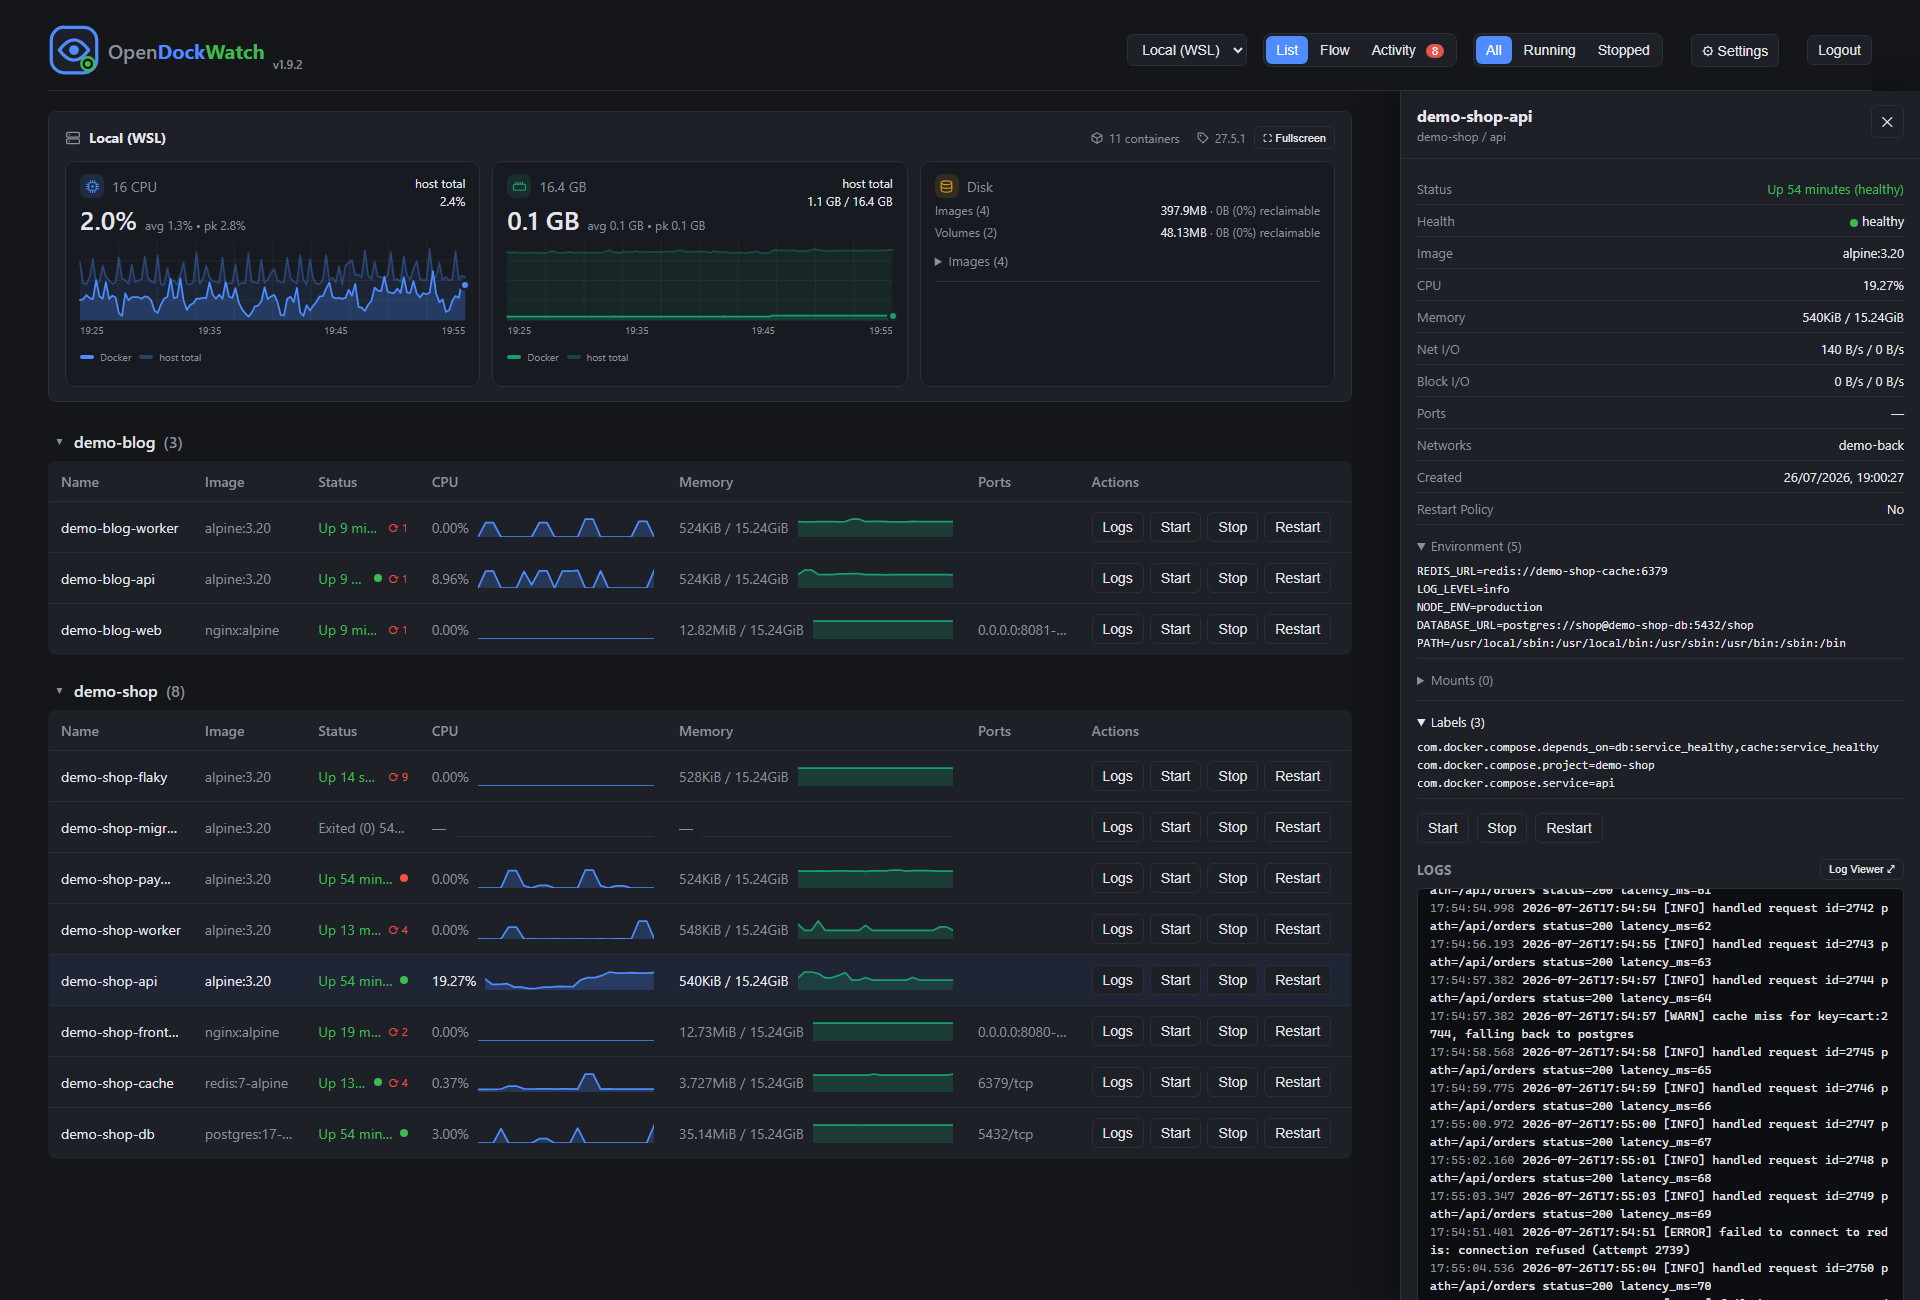
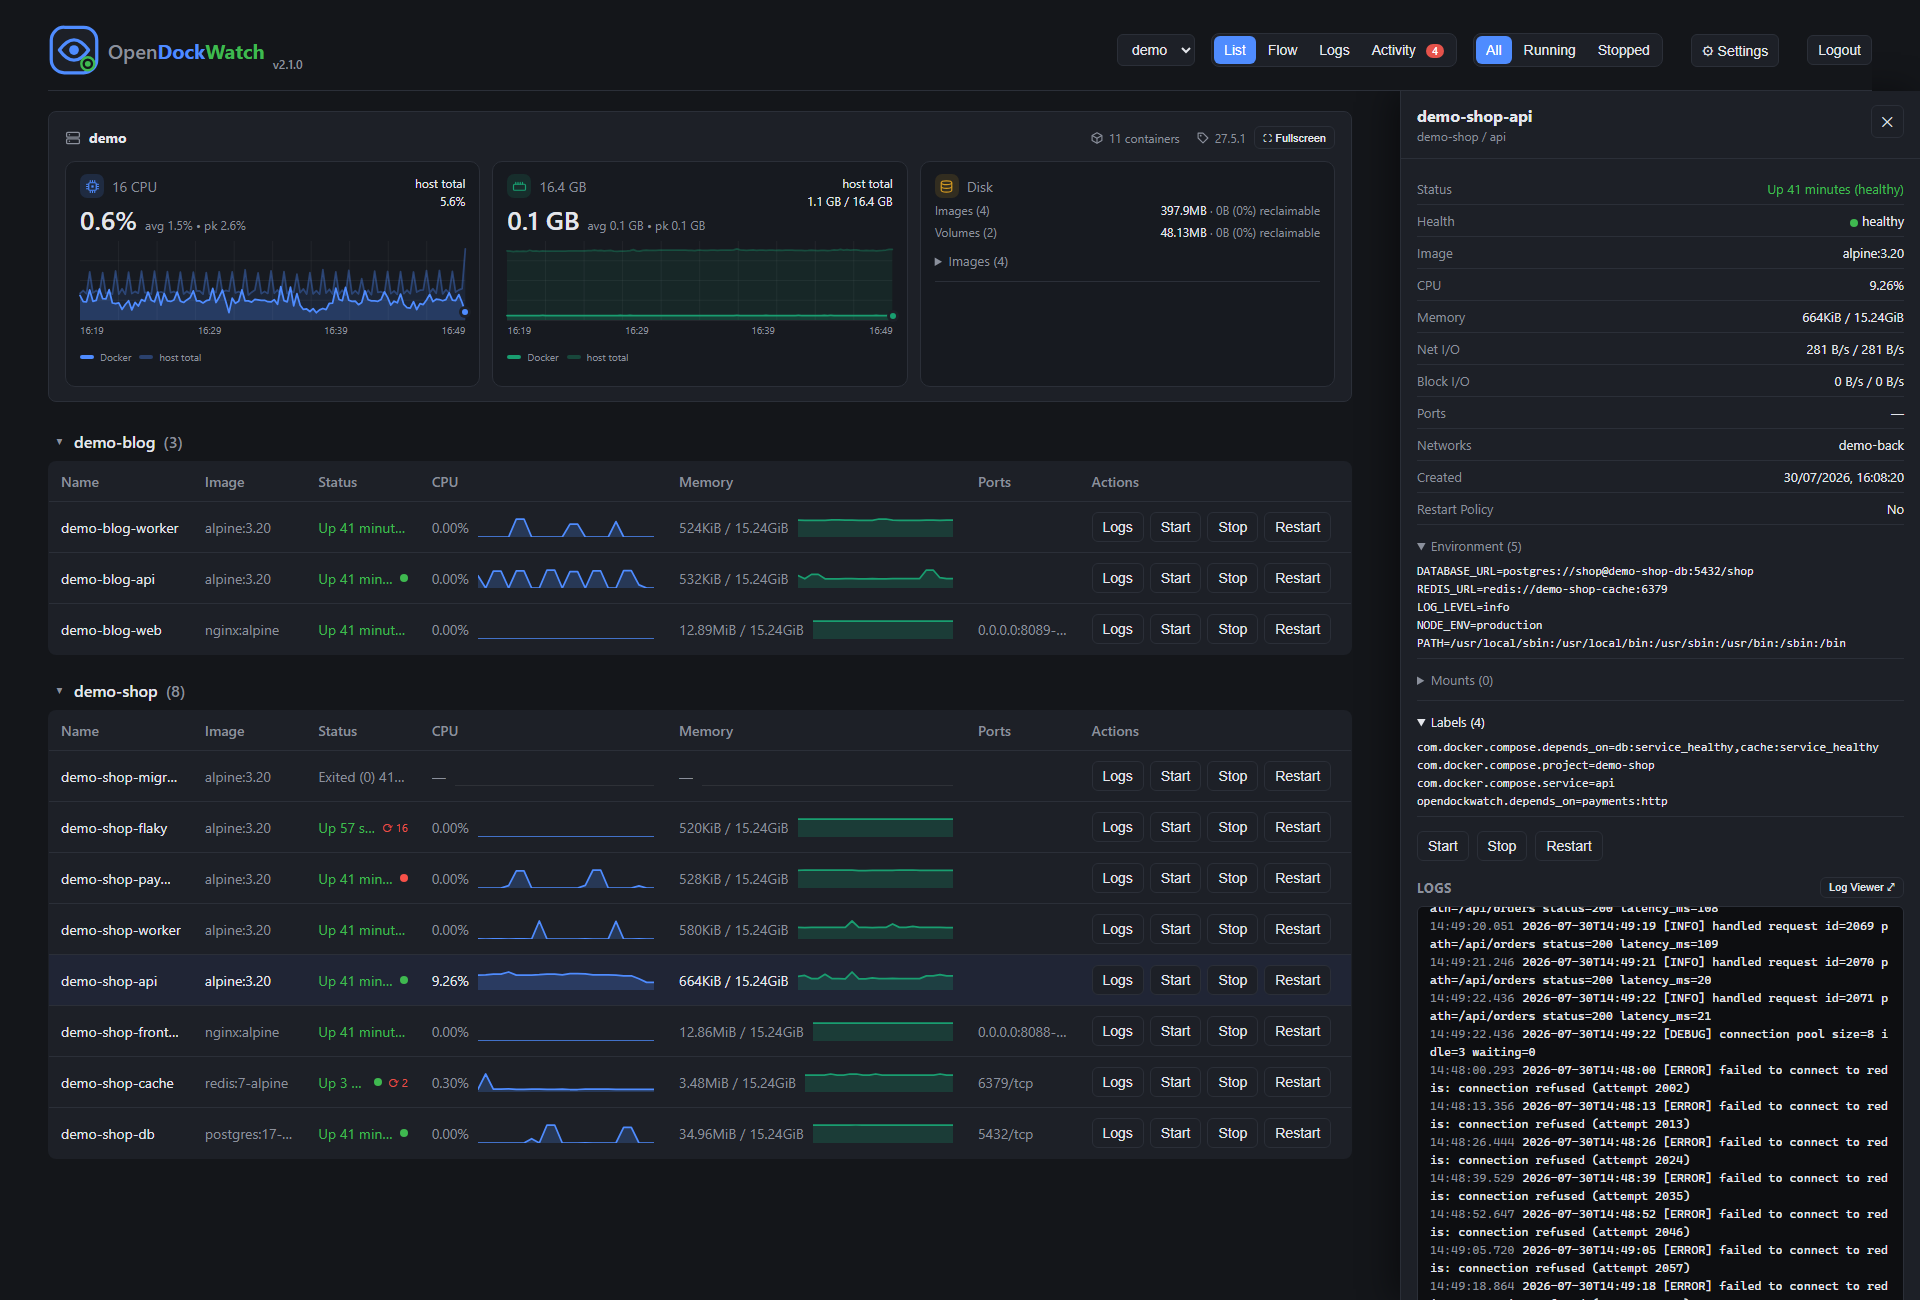
Add opendockwatch.depends_on label support for compose-native manual Flow-view dependency edges, superseding hand-maintained hosts.json edges where a container name is enough Retake all README screenshots (plus a new Logs-tab shot) against a longer-warmed demo stack showing the new dependency labels

diff --git a/server/docker.js b/server/docker.js
@@ -252,6 +252,55 @@ function dependsOnEdges(containers, dependsOnRaw) {
   return edges;
 }
 
+// Resolves the opendockwatch.depends_on label into manual dependency edges - the compose-native
+// alternative to hand-maintaining edges in hosts.json's `edges` array (see manualEdges below):
+// declared right on the service that has the dependency instead of in a separate config file.
+// Same truncation hazard as com.docker.compose.depends_on above, and the same fix - fetched via
+// its own dedicated `docker ps --format` rather than pulled from the general Labels string.
+//
+// customDependsOnRaw is tab-separated "<containerId>\t<label value>" lines, one per container
+// (value may be empty). Each comma-separated entry is "target[:label]" - target resolves to a
+// same-compose-project service first (so a project's own services can reference each other by
+// their short name, exactly like native depends_on, including fanning out to every replica of a
+// scaled service), falling back to a literal container name for cross-project or non-compose
+// targets - the same targeting hosts.json's manual `edges` already supports.
+function customDependsOnEdges(containers, customDependsOnRaw) {
+  const byProjectService = new Map();
+  for (const c of containers) {
+    if (!c.composeProject || !c.composeService) continue;
+    const key = `${c.composeProject}::${c.composeService}`;
+    if (!byProjectService.has(key)) byProjectService.set(key, []);
+    byProjectService.get(key).push(c.id);
+  }
+  const byName = new Map(containers.map((c) => [c.name, c.id]));
+  const byId = new Map(containers.map((c) => [c.id, c]));
+
+  const edges = [];
+  for (const line of (customDependsOnRaw || '').split('\n')) {
+    const trimmed = line.trim();
+    if (!trimmed) continue;
+    const tabIdx = trimmed.indexOf('\t');
+    const id = tabIdx === -1 ? trimmed : trimmed.slice(0, tabIdx);
+    const value = tabIdx === -1 ? '' : trimmed.slice(tabIdx + 1);
+    if (!value) continue;
+    const source = byId.get(id);
+    if (!source) continue;
+    for (const entry of value.split(',')) {
+      const [rawTarget, rawLabel] = entry.split(':');
+      const target = (rawTarget || '').trim();
+      if (!target) continue;
+      const sameProjectTargets = source.composeProject ? byProjectService.get(`${source.composeProject}::${target}`) : null;
+      const targetIds =
+        sameProjectTargets && sameProjectTargets.length ? sameProjectTargets : byName.has(target) ? [byName.get(target)] : [];
+      for (const targetId of targetIds) {
+        if (targetId === id) continue;
+        edges.push({ source: id, target: targetId, kind: 'manual', label: rawLabel ? rawLabel.trim() : null });
+      }
+    }
+  }
+  return edges;
+}
+
 // Resolves each container's mount sources for the Flow view's tree mode. Docker's `{{.Mounts}}`
 // format truncates long bind-mount source paths (and, with --no-trunc, so does the paired
 // {{.ID}} column - it comes back as the full 64-char id instead of the usual 12-char short one),
@@ -304,9 +353,10 @@ function manualEdges(containers, declared = []) {
 async function getTopology(host, snapshot) {
   const useSnapshot = snapshot && snapshot.containers && snapshot.containers.length;
   const containers = useSnapshot ? snapshot.containers : await listContainers(host);
-  const [stats, dependsOnRaw, mountsRaw] = await Promise.all([
+  const [stats, dependsOnRaw, customDependsOnRaw, mountsRaw] = await Promise.all([
     useSnapshot ? Promise.resolve(snapshot.stats || {}) : getStats(host).catch(() => ({})),
     run([...hostArgs(host), 'ps', '-a', '--format', '{{.ID}}\t{{.Label "com.docker.compose.depends_on"}}']).catch(() => ''),
+    run([...hostArgs(host), 'ps', '-a', '--format', '{{.ID}}\t{{.Label "opendockwatch.depends_on"}}']).catch(() => ''),
     run([...hostArgs(host), 'ps', '-a', '--no-trunc', '--format', '{{.ID}}\t{{.Mounts}}']).catch(() => ''),
   ]);
   const mountsById = parseMountsList(mountsRaw);
@@ -332,7 +382,12 @@ async function getTopology(host, snapshot) {
       blockWriteRate: s ? (s.blockWriteRate ?? null) : null,
     };
   });
-  const edges = [...networkEdges(containers), ...dependsOnEdges(containers, dependsOnRaw), ...manualEdges(containers, host.edges)];
+  const edges = [
+    ...networkEdges(containers),
+    ...dependsOnEdges(containers, dependsOnRaw),
+    ...customDependsOnEdges(containers, customDependsOnRaw),
+    ...manualEdges(containers, host.edges),
+  ];
   return { nodes, edges };
 }
 
@@ -458,6 +513,7 @@ module.exports = {
   parseHealth,
   networkEdges,
   dependsOnEdges,
+  customDependsOnEdges,
   parseMountsList,
   computeRate,
   computeIoRates,

diff --git a/test/docker.test.js b/test/docker.test.js
@@ -7,6 +7,7 @@ const {
   parseHealth,
   networkEdges,
   dependsOnEdges,
+  customDependsOnEdges,
   parseMountsList,
   computeRate,
   computeIoRates,
@@ -217,6 +218,74 @@ test('dependsOnEdges', async (t) => {
       { id: 'b', composeProject: 'esb', composeService: 'db' },
     ];
     const edges = dependsOnEdges(containers, 'a\tdb:service_healthy:false');
+    assert.equal(edges.length, 0);
+  });
+});
+
+test('customDependsOnEdges', async (t) => {
+  await t.test('resolves a same-project service by name', () => {
+    const containers = [
+      { id: 'a', name: 'shop-api', composeProject: 'shop', composeService: 'api' },
+      { id: 'b', name: 'shop-db', composeProject: 'shop', composeService: 'db' },
+    ];
+    const edges = customDependsOnEdges(containers, 'a\tdb:reads');
+    assert.equal(edges.length, 1);
+    assert.deepEqual(edges[0], { source: 'a', target: 'b', kind: 'manual', label: 'reads' });
+  });
+
+  await t.test('handles multiple comma-separated targets without truncating', () => {
+    const containers = [
+      { id: 'a', name: 'shop-api', composeProject: 'shop', composeService: 'api' },
+      { id: 'b', name: 'shop-db', composeProject: 'shop', composeService: 'db' },
+      { id: 'c', name: 'shop-cache', composeProject: 'shop', composeService: 'cache' },
+    ];
+    const edges = customDependsOnEdges(containers, 'a\tdb:reads,cache:uses');
+    assert.equal(edges.length, 2);
+    assert.deepEqual(edges.map((e) => e.target).sort(), ['b', 'c']);
+  });
+
+  await t.test('resolves a scaled service to all of its replica containers', () => {
+    const containers = [
+      { id: 'a', name: 'shop-api', composeProject: 'shop', composeService: 'api' },
+      { id: 'w1', name: 'shop-worker-1', composeProject: 'shop', composeService: 'worker' },
+      { id: 'w2', name: 'shop-worker-2', composeProject: 'shop', composeService: 'worker' },
+    ];
+    const edges = customDependsOnEdges(containers, 'a\tworker');
+    assert.equal(edges.length, 2);
+    assert.deepEqual(edges.map((e) => e.target).sort(), ['w1', 'w2']);
+  });
+
+  await t.test('produces no edges for a container with no depends_on label', () => {
+    const containers = [
+      { id: 'a', name: 'shop-api', composeProject: 'shop', composeService: 'api' },
+      { id: 'b', name: 'shop-db', composeProject: 'shop', composeService: 'db' },
+    ];
+    const edges = customDependsOnEdges(containers, 'a\t\nb\t');
+    assert.equal(edges.length, 0);
+  });
+
+  await t.test('falls back to a literal container name for a cross-project target', () => {
+    const containers = [
+      { id: 'a', name: 'shop-api', composeProject: 'shop', composeService: 'api' },
+      { id: 'b', name: 'blog-db', composeProject: 'blog', composeService: 'db' },
+    ];
+    const edges = customDependsOnEdges(containers, 'a\tblog-db:reads');
+    assert.equal(edges.length, 1);
+    assert.deepEqual(edges[0], { source: 'a', target: 'b', kind: 'manual', label: 'reads' });
+  });
+
+  await t.test('produces no edge for a target that matches neither a same-project service nor any container name', () => {
+    const containers = [
+      { id: 'a', name: 'shop-api', composeProject: 'shop', composeService: 'api' },
+      { id: 'b', name: 'shop-db', composeProject: 'shop', composeService: 'db' },
+    ];
+    const edges = customDependsOnEdges(containers, 'a\tnonexistent:reads');
+    assert.equal(edges.length, 0);
+  });
+
+  await t.test('skips a self-referencing entry', () => {
+    const containers = [{ id: 'a', name: 'shop-api', composeProject: 'shop', composeService: 'api' }];
+    const edges = customDependsOnEdges(containers, 'a\tapi:self');
     assert.equal(edges.length, 0);
   });
 });

diff --git a/scripts/screenshots.js b/scripts/screenshots.js
@@ -172,6 +172,13 @@ async function main() {
   await btn('Graph').click();
   await page.waitForTimeout(1200);
 
+  console.log('logs tab');
+  await page.locator('.view-toggle button', { hasText: 'Logs' }).first().click();
+  await page.waitForTimeout(1200);
+  await page.locator('.logs-tab-row', { hasText: 'demo-shop-api' }).first().click();
+  await page.waitForTimeout(3000);
+  await shot('logs-tab', { fitHeight: false });
+
   console.log('details panel');
   await clearSelection();
   await page.locator('.view-toggle button', { hasText: 'List' }).first().click();

diff --git a/README.md b/README.md
@@ -14,10 +14,11 @@ A small self-hosted Docker dashboard: containers grouped by Compose project, CPU
   - **Semantic zoom** — below native size, nodes switch to a compact state/icon/name rendering instead of shrinking their full metrics down to unreadable, one zoom-in gesture away from the rest.
   - **Depends-on edges**: read straight from Compose's own `com.docker.compose.depends_on` label (service + startup condition), so it reflects the real `depends_on:` block — no compose file parsing needed, and it works for remote SSH hosts too.
   - **Auto (network) edges**: containers sharing a custom Docker network are connected, labeled with the network's name — but only across different compose projects (or when at least one side isn't grouped). Same-project network edges are suppressed, since the group box already conveys that relationship.
-  - **Manual edges**: declared in `hosts.json` (`edges: [{ from, to, label }]`) for relationships Docker can't see itself — e.g. a non-dockerized frontend calling a backend API, or cross-project dependencies.
+  - **Manual edges**: for relationships Docker can't see itself — e.g. a non-dockerized frontend calling a backend API, or cross-project dependencies. Preferred way is the `opendockwatch.depends_on` label on the dependent service itself: a comma-separated `target[:label]` list, e.g. `opendockwatch.depends_on: "payments-gateway:http,shop-db:reads"` on `shop-api`'s own `labels:` — `target` matches a service in the same compose project first, falling back to a literal container name for cross-project or non-dockerized targets. It lives in the compose file next to the service it describes and needs no separate config. `hosts.json` (`edges: [{ from, to, label }]`) is still there for the one case the label can't cover: a relationship where one end isn't a container at all.
   - **Tree mode** — a Graph/Tree toggle switches to an ArgoCD-style `project → container → (network | volume)` layout instead: no compose-group boxes, just a left-to-right dependency tree. A network or volume shared by more than one container renders once and gets multiple incoming edges, so shared infrastructure is immediately obvious. Container boxes are the same live nodes as Graph mode (CPU/RAM, health, badges); tapping a network/mount pill fades the graph down to just the containers using it and shows which ones in the toolbar. Networks/volumes can each be hidden via their own toggle. Positions, camera, and the mode itself are all remembered per host.
+- **Logs tab** — a dedicated view for jumping between container logs: a compact, searchable, project-grouped list of every container on the left, and a full log viewer on the right that switches streams the moment you click a different one, with the host stats card tucked away so the log gets the room.
 - **Details panel** — clicking a container (in either view) opens a side panel with status, image, CPU/mem, network/disk I/O rates, ports, networks, actions, and a small live log preview (last 100 lines). Created time, restart policy, environment variables, mounts, and labels — the things you'd otherwise `docker inspect` for — are one click away in collapsed sections.
-- **Log Viewer** — expand the preview into a full-width bottom panel with a tail-size selector (100/200/1000/5000 lines — capped, never loads unbounded history), level filters, and a live text filter that can be switched to regex matching (with a match count and invalid-pattern warning). The current tail can also be downloaded as a `.txt` file. Reachable from the details panel or directly via the Logs button on any row in List view.
+- **Log Viewer** — expand the preview into a full-width bottom panel with a tail-size selector (100/200/1000/5000 lines — capped, never loads unbounded history), level filters, and a live text filter that can be switched to regex matching (with a match count and invalid-pattern warning). The current tail can also be downloaded as a `.txt` file. Reachable from the details panel, directly via the Logs button on any row in List view, or from the Logs tab.
 - **Activity view** — alerts and the raw container event log (start/stop/die/oom, etc.) side by side, each independently searchable and scrollable, with an unread-alert count badge on the tab itself and a checkmark on any alert you've acknowledged. See [Alerts](#alerts) below for the rule list and webhook setup.
 
 ## Screenshots
@@ -45,6 +46,10 @@ A small self-hosted Docker dashboard: containers grouped by Compose project, CPU
 **Tree mode** — an ArgoCD-style `project → container → network/volume` DAG; a network or volume shared by more than one container renders once with multiple incoming edges
 
 ![Flow view in tree mode, showing compose projects fanning out to containers which fan out to shared network and volume/bind-mount pills](screenshots/flow-tree-view.png)
+
+**Logs tab** — a compact, searchable container list on the left, a full log viewer on the right; click through containers without leaving the view
+
+![Logs tab, a compact container list beside a full-width log viewer streaming the selected container's logs](screenshots/logs-tab.png)
 
 **Details panel** — status, image, CPU/mem, network/disk rates, ports, networks, actions, a live log preview, and `docker inspect` details (environment, mounts, labels, restart policy) a click away
 

diff --git a/CONTRIBUTING.md b/CONTRIBUTING.md
@@ -37,7 +37,7 @@ something that has more than one container in it.
 The stack deliberately contains an unhealthy container, a crash-looping one, and one that has
 exited, so the health dots, restart badges and alert rules all have something to show.
 
-Taking the shots themselves is `npm run screenshots`, which drives a real browser through all nine:
+Taking the shots themselves is `npm run screenshots`, which drives a real browser through all ten:
 
 ```
 npx playwright install chromium          # once - CI skips the browser download, see ci.yml
